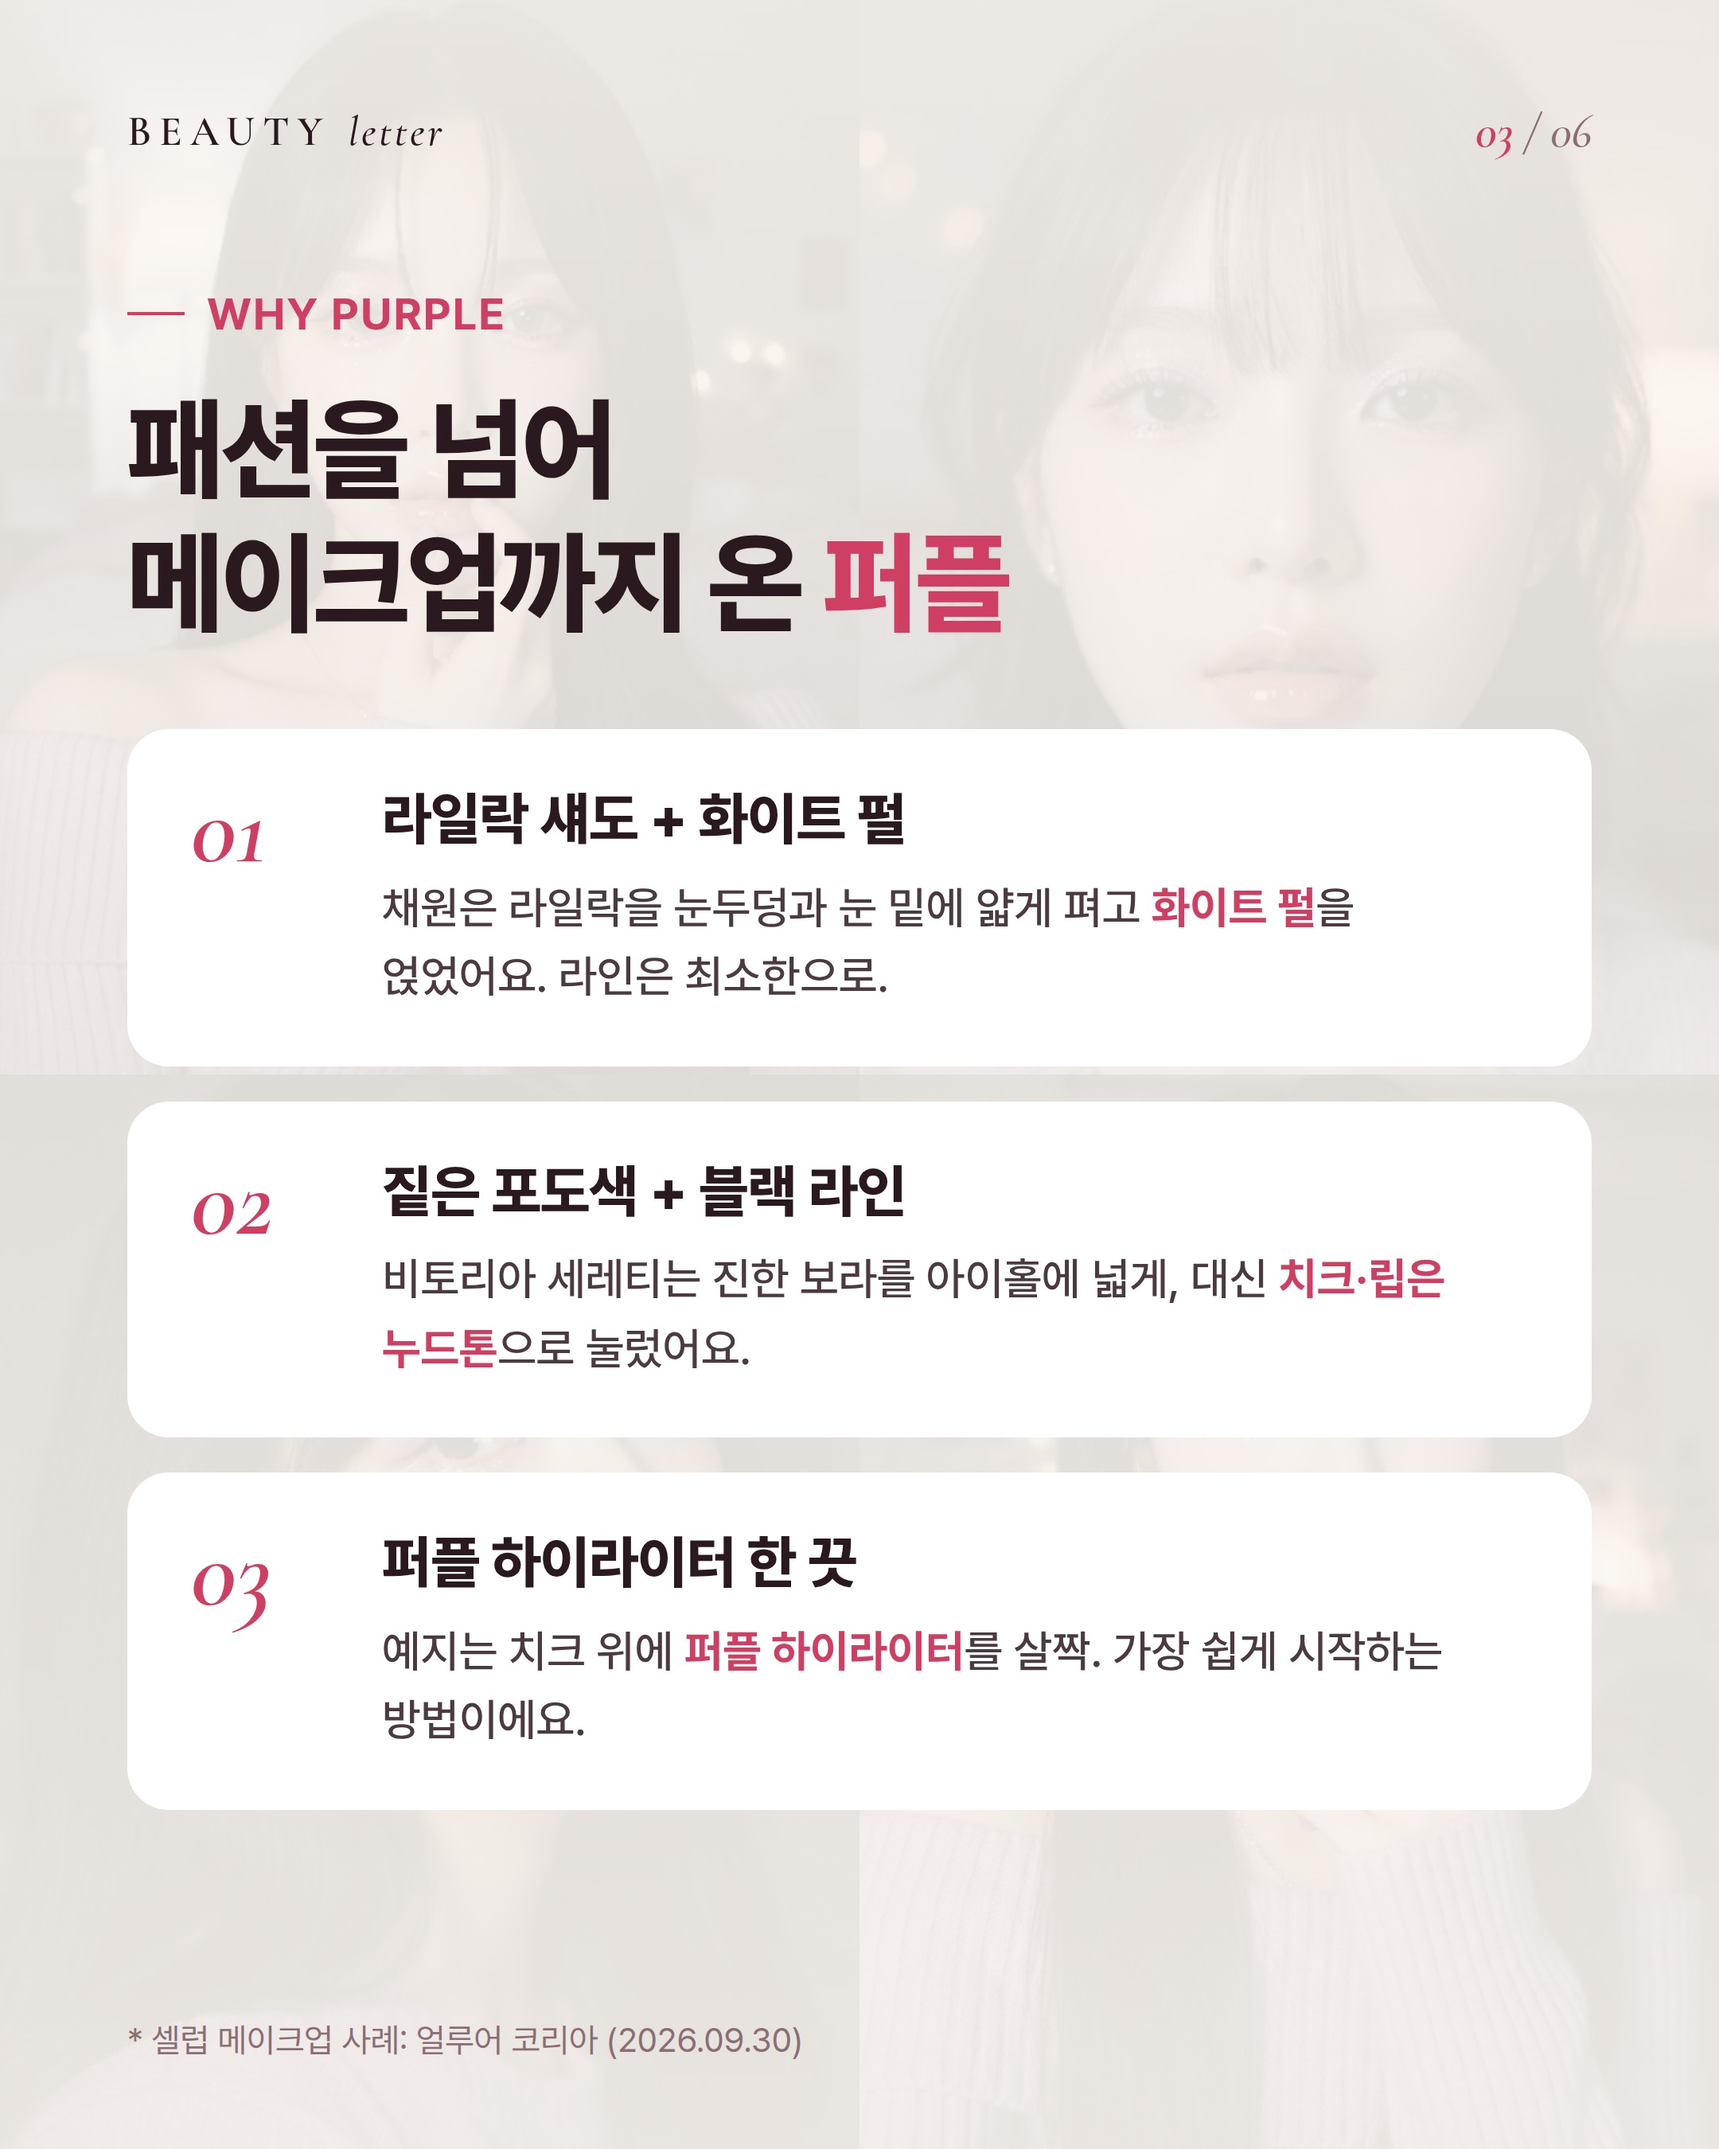
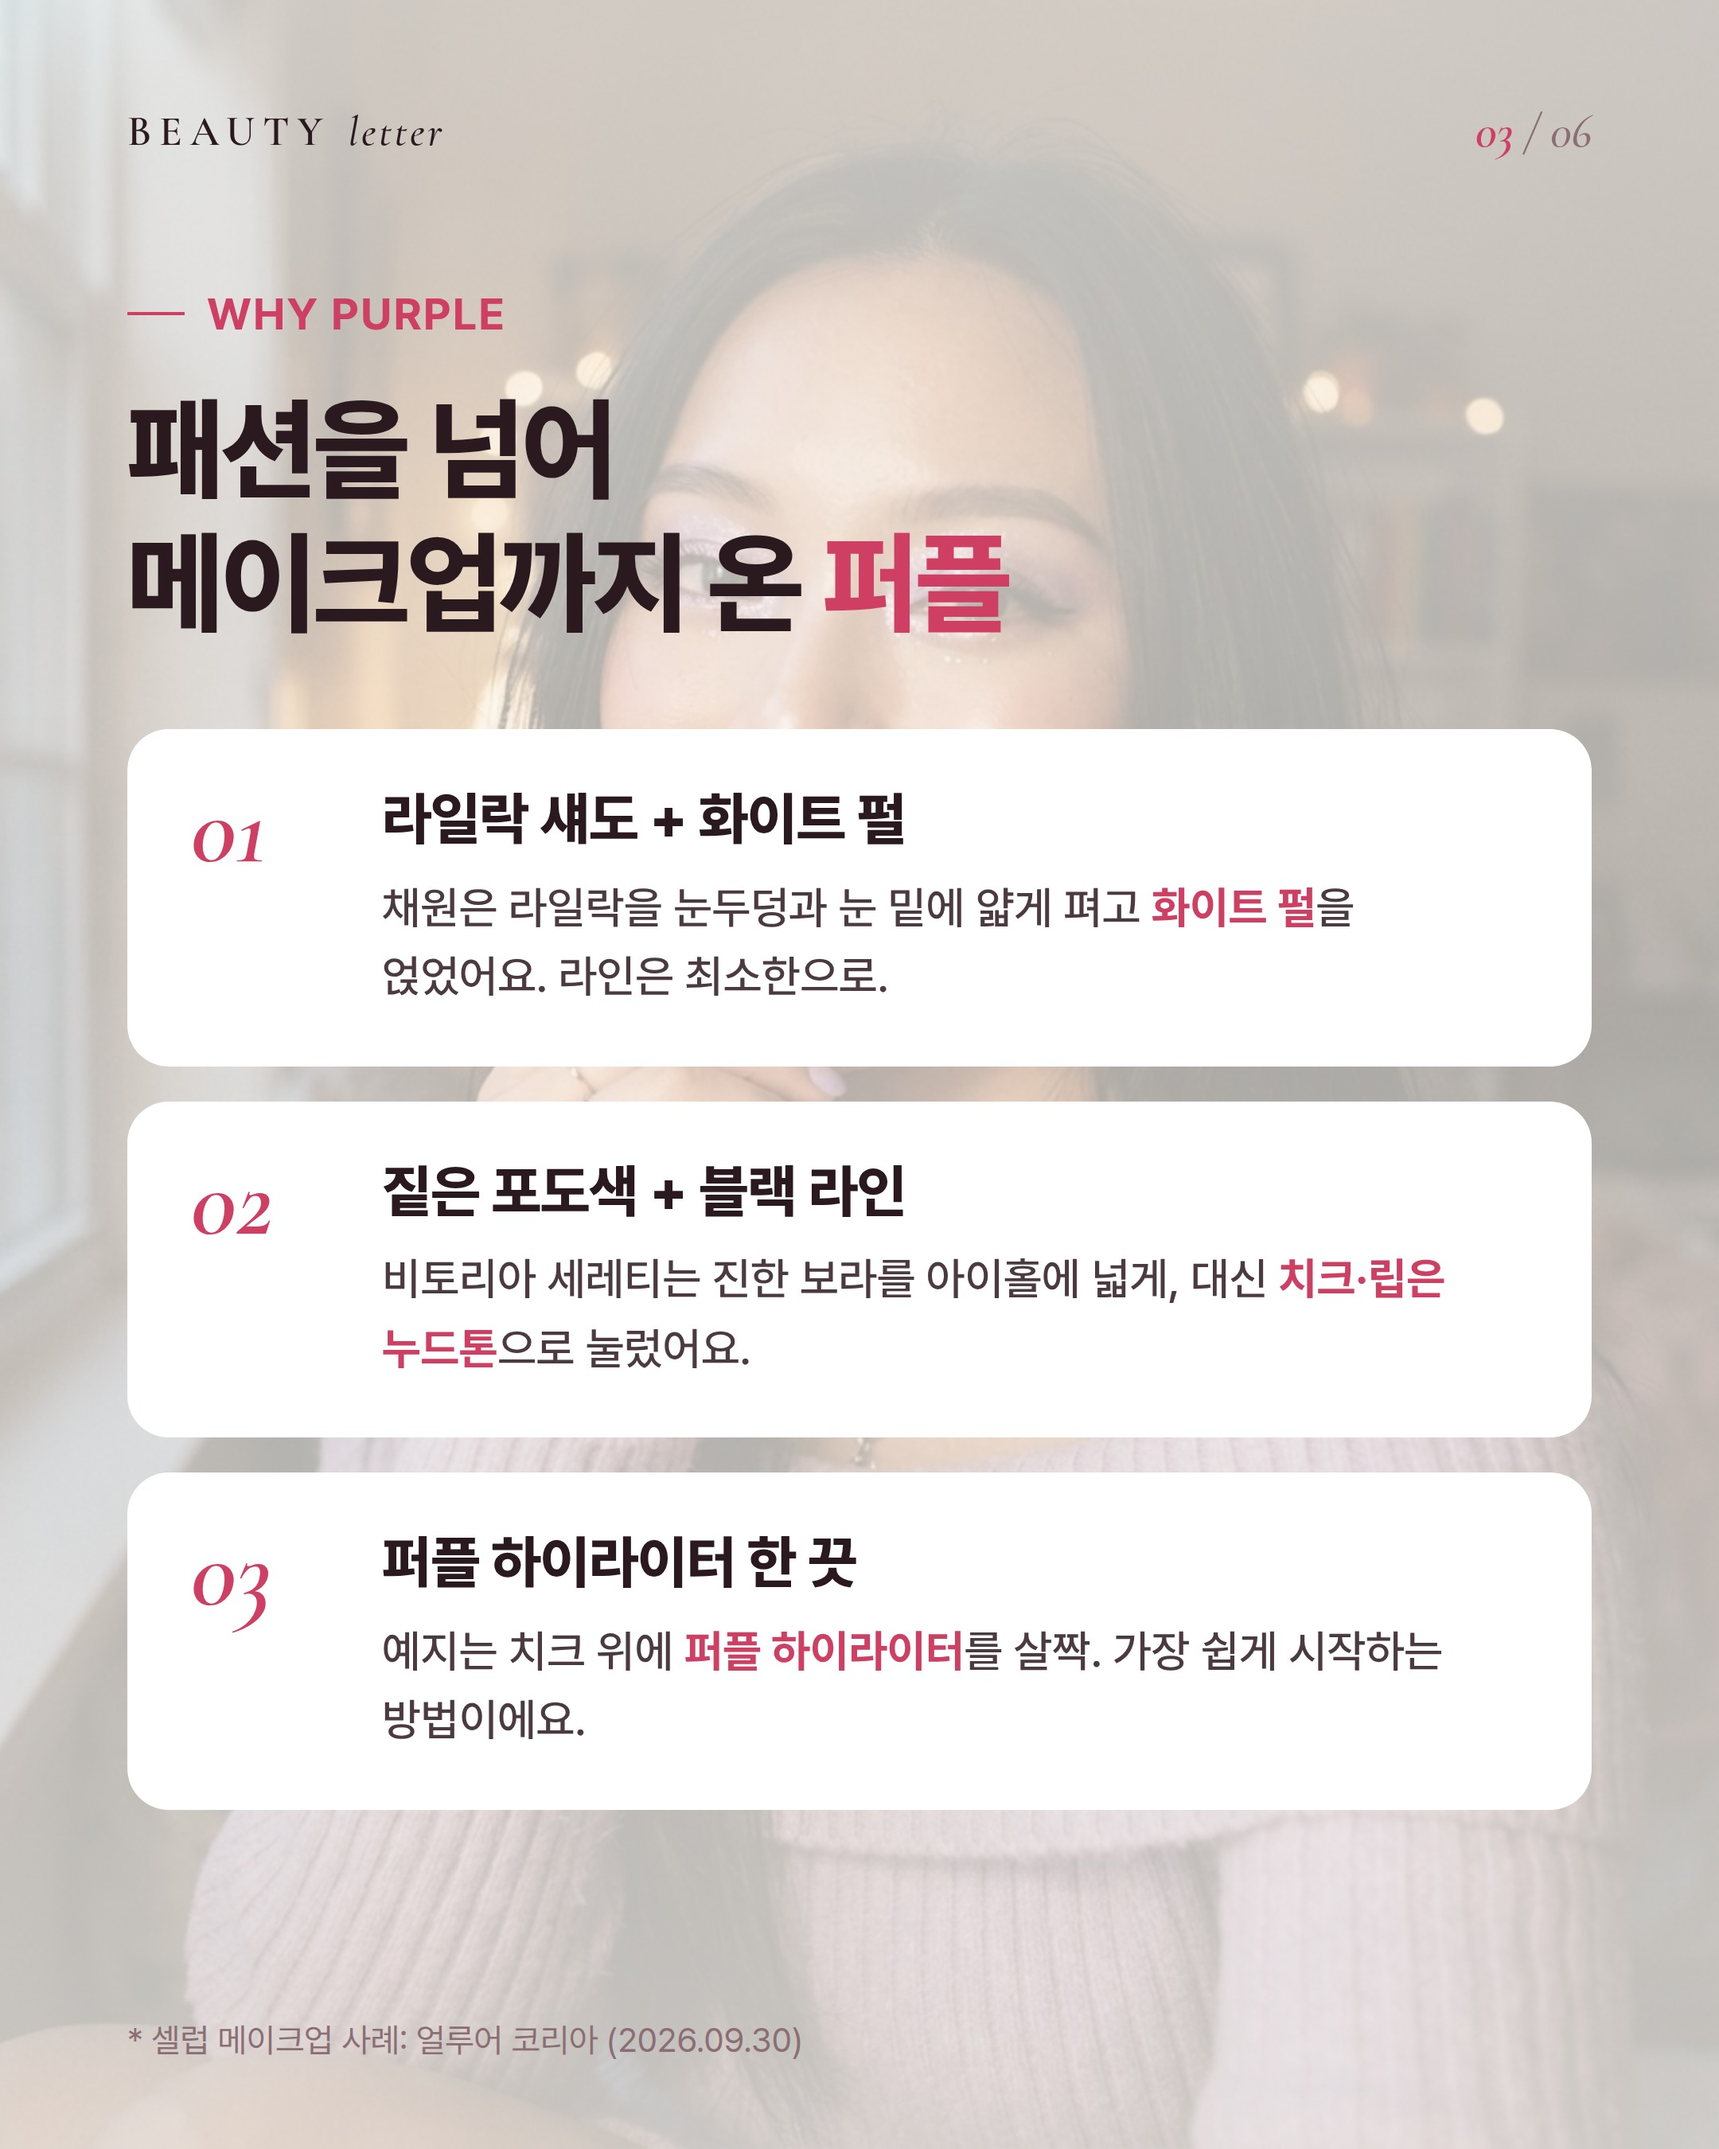
뷰티레터: 본문 장 배경은 사진 1장만(콜라주 금지), 보라 레터 3장 배경 교체
Claude-Session: https://claude.ai/code/session_01M29FXMb16fvzM5BCrcufte

diff --git a/design/beauty_news/letters/2026-10-02_pm_purple/slides.html b/design/beauty_news/letters/2026-10-02_pm_purple/slides.html
@@ -18,7 +18,7 @@
   <div class="group"><div class="gl">쿨톤이라면<small>푸른기 도는 보라</small></div><div class="chips"><div class="chip"><i style="background:#C9AEDB"></i><b>라일락</b><span>여름 쿨 데일리</span></div><div class="chip"><i style="background:#B3A3E0"></i><b>라벤더</b><span>맑은 눈매</span></div><div class="chip"><i style="background:#8A5FB5"></i><b>바이올렛</b><span>겨울 쿨 포인트</span></div><div class="chip"><i style="background:#5B2C5C"></i><b>딥 플럼</b><span>스모키용</span></div></div></div><div class="group"><div class="gl">웜톤이라면<small>붉은기·브라운기 섞인 보라</small></div><div class="chips"><div class="chip"><i style="background:#8F6871"></i><b>모브 브라운</b><span>데일리 1순위</span></div><div class="chip"><i style="background:#A4507A"></i><b>레드 퍼플</b><span>생기 포인트</span></div><div class="chip"><i style="background:#6C2F45"></i><b>와인 그레이프</b><span>가을 웜 스모키</span></div><div class="chip"><i style="background:#B88AA3"></i><b>골드펄 오키드</b><span>펄로 따뜻하게</span></div></div></div>
   
   <div class="foot">* 일반적인 퍼스널컬러 기준의 예시 컬러예요. 같은 톤 안에서도 차이가 있어요.</div></section>
-<section class="card points" data-name="03_trend"><div class="bgimg collage"><img src="img/bg_ai1.jpg" alt="" /><img src="img/bg_ai2.jpg" alt="" /><img src="img/bg_ai3.jpg" alt="" /><img src="img/bg_ai4.jpg" alt="" /></div><div class="topbar"><div class="wordmark" style="font-size:26px;letter-spacing:5px">BEAUTY <i>letter</i></div><div class="pageno"><b>03</b> / 06</div></div><div class="kicker">WHY PURPLE</div><h2>패션을 넘어<br/>메이크업까지 온 <span class="hl">퍼플</span></h2>
+<section class="card points" data-name="03_trend"><div class="bgimg single"><img src="img/bg_trend.jpg" alt="" /></div><div class="topbar"><div class="wordmark" style="font-size:26px;letter-spacing:5px">BEAUTY <i>letter</i></div><div class="pageno"><b>03</b> / 06</div></div><div class="kicker">WHY PURPLE</div><h2>패션을 넘어<br/>메이크업까지 온 <span class="hl">퍼플</span></h2>
   <div class="items"><div class="item"><div class="n">01</div><div><h3>라일락 섀도 + 화이트 펄</h3><p>채원은 라일락을 눈두덩과 눈 밑에 얇게 펴고 <b>화이트 펄</b>을 얹었어요. 라인은 최소한으로.</p></div></div><div class="item"><div class="n">02</div><div><h3>짙은 포도색 + 블랙 라인</h3><p>비토리아 세레티는 진한 보라를 아이홀에 넓게, 대신 <b>치크·립은 누드톤</b>으로 눌렀어요.</p></div></div><div class="item"><div class="n">03</div><div><h3>퍼플 하이라이터 한 끗</h3><p>예지는 치크 위에 <b>퍼플 하이라이터</b>를 살짝. 가장 쉽게 시작하는 방법이에요.</p></div></div></div>
   <div class="foot">* 셀럽 메이크업 사례: 얼루어 코리아 (2026.09.30)</div></section>
 <section class="card points" data-name="04_howto"><div class="topbar"><div class="wordmark" style="font-size:26px;letter-spacing:5px">BEAUTY <i>letter</i></div><div class="pageno"><b>04</b> / 06</div></div><div class="kicker">HOW TO</div><h2>웜톤이 보라를<br/>쓰는 <span class="hl">3가지 방법</span></h2>

diff --git a/design/beauty_news/styles.css b/design/beauty_news/styles.css
@@ -440,3 +440,6 @@ body { background: #d9d2cf; font-family: var(--sans); color: var(--plum); word-b
 .bgimg.collage { display: grid; grid-template-columns: 1fr 1fr; grid-template-rows: 1fr 1fr; }
 .bgimg.collage img { position: static; opacity: .16; filter: saturate(.8); }
 .bgimg.collage::after { content: ""; position: absolute; inset: 0; background: linear-gradient(180deg, rgba(251,246,241,.55), rgba(251,246,241,.25) 40%, rgba(251,246,241,.55)); }
+/* 본문 장 배경은 사진 1장만 (콜라주 금지, 2026-10-01 사용자 결정) */
+.bgimg.single img { opacity: .38; filter: saturate(.9); object-position: center 20%; }
+.bgimg.single::after { content: ""; position: absolute; inset: 0; background: linear-gradient(180deg, rgba(251,246,241,.45), rgba(251,246,241,.15) 45%, rgba(251,246,241,.45)); }

diff --git a/design/beauty_news/DESIGN_GUIDE.md b/design/beauty_news/DESIGN_GUIDE.md
@@ -88,6 +88,11 @@
 3. **핀터레스트**: 원작자를 찾을 수 있는 사진만, 배경으로만 씁니다. 연예인·셀럽 얼굴 금지. 표기는 `@pinterest`가 아니라 원작자 이름. 요청이 오면 바로 내립니다.
 - 사진마다 `sources.md`에 출처 URL을 적습니다.
 
+## 본문 장 배경 사진
+- 배경을 넣을 때는 **사진 1장만** 씁니다. **콜라주는 절대 하지 않습니다** (2026-10-01 사용자 결정).
+- `letter.json`의 슬라이드에 `"bg": "img/파일.jpg"`를 넣으면 연하게 깔립니다. 이미 만든 AI 이미지 중 안 쓴 컷을 재활용해도 됩니다.
+- 마지막 P.S. 장에는 표지 이미지를 연하게 다시 깔아 수미상관으로 마무리합니다(자동).
+
 ## 광고 표시
 협찬이나 광고 콘텐츠는 표지에 `#광고`를 넣고, P.S. 장 하단에 고지 문구를 넣습니다. 캡션 첫 줄에도 `#광고`를 씁니다.
 협찬이 아닌 콘텐츠에서는 배지와 고지 문구를 둘 다 지웁니다.
